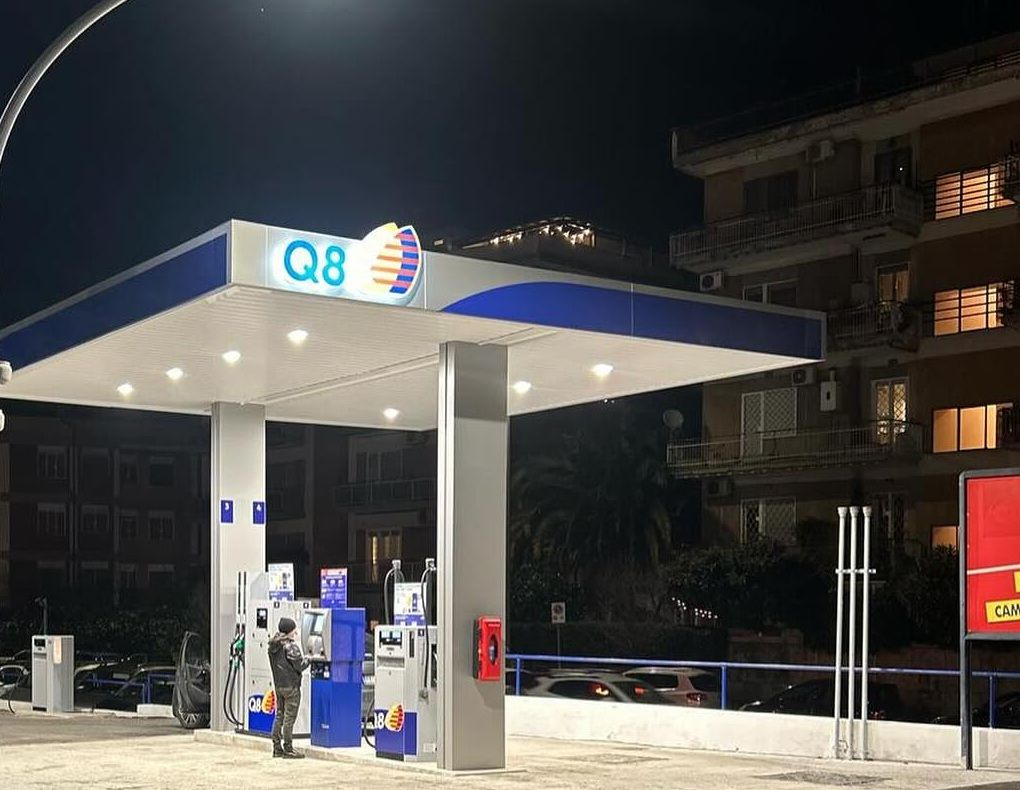
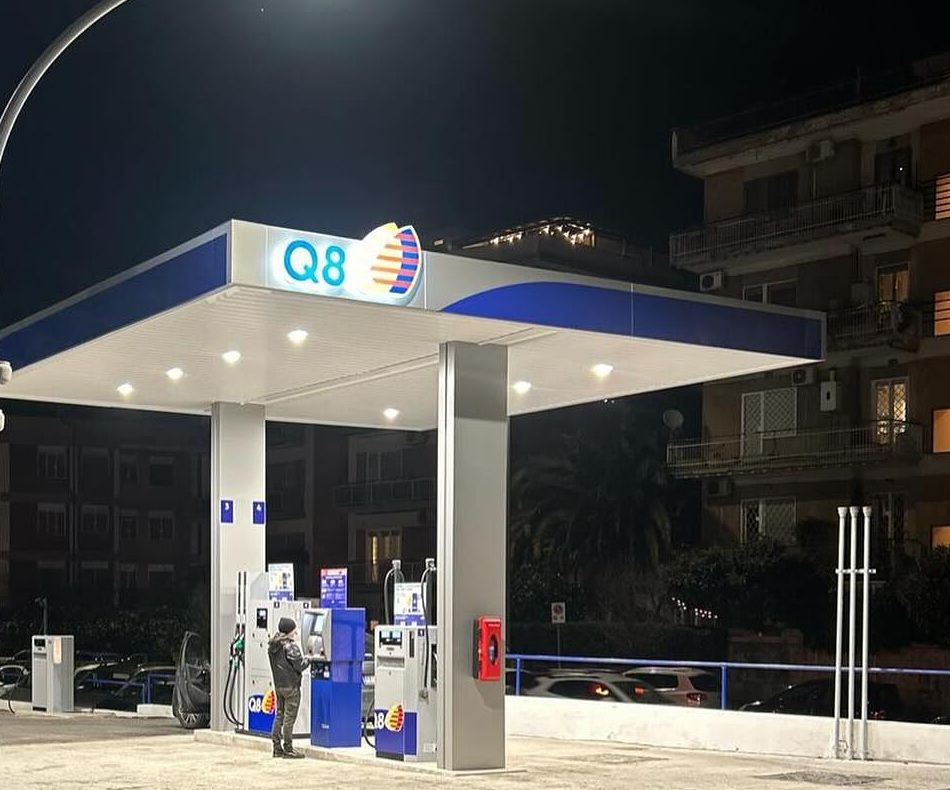
Galleria: Bravetta senza cartellone rosso
Claude-Session: https://claude.ai/code/session_01AEzfjPHTWEjgXzQrjMZKXZ

diff --git a/index.html b/index.html
@@ -1110,7 +1110,7 @@ footer{background:#000b18}
       <p class="kicker">Galleria</p>
       <h2 class="title" id="gal-title">I nostri impianti</h2>
       <p class="lede">Alcune delle stazioni della rete T.Petrol, da Roma all'Agro Pontino. Altre foto in arrivo, anche su Instagram <a href="https://www.instagram.com/tpetrol_srl_/" target="_blank" rel="noopener">@tpetrol_srl_</a>.</p>
-      <div class="gal"><figure class="gal-it"><img src="galleria/sabaudia.jpg" alt="Stazione IP Piazza dei Caduti 21, Borgo Vodice, Sabaudia" loading="lazy" decoding="async"><figcaption><b>IP</b> Borgo Vodice · Sabaudia</figcaption></figure><figure class="gal-it"><img src="galleria/nomentana.jpg" alt="Stazione T24 Via Nomentana 359, Roma" loading="lazy" decoding="async"><figcaption><b>T24</b> Via Nomentana 359 · Roma</figcaption></figure><figure class="gal-it"><img src="galleria/casilina.jpg" alt="Stazione T24 Via Casilina, Roma" loading="lazy" decoding="async"><figcaption><b>T24</b> Via Casilina · Roma</figcaption></figure><figure class="gal-it"><img src="galleria/leonardo.jpg" alt="Stazione Q8 Largo Leonardo da Vinci, Roma" loading="lazy" decoding="async"><figcaption><b>Q8</b> Largo Leonardo da Vinci · Roma</figcaption></figure><figure class="gal-it"><img style="object-position:50% 90%" src="galleria/marconi.jpg" alt="Stazione Q8 Via Marconi 700/A, Roma" loading="lazy" decoding="async"><figcaption><b>Q8</b> Via Marconi 700/A · Roma</figcaption></figure><figure class="gal-it"><img src="galleria/bravetta.jpg" alt="Stazione Q8 Via di Bravetta 312, Roma" loading="lazy" decoding="async"><figcaption><b>Q8</b> Via di Bravetta 312 · Roma</figcaption></figure></div>
+      <div class="gal"><figure class="gal-it"><img src="galleria/sabaudia.jpg" alt="Stazione IP Piazza dei Caduti 21, Borgo Vodice, Sabaudia" loading="lazy" decoding="async"><figcaption><b>IP</b> Borgo Vodice · Sabaudia</figcaption></figure><figure class="gal-it"><img src="galleria/nomentana.jpg" alt="Stazione T24 Via Nomentana 359, Roma" loading="lazy" decoding="async"><figcaption><b>T24</b> Via Nomentana 359 · Roma</figcaption></figure><figure class="gal-it"><img src="galleria/casilina.jpg" alt="Stazione T24 Via Casilina, Roma" loading="lazy" decoding="async"><figcaption><b>T24</b> Via Casilina · Roma</figcaption></figure><figure class="gal-it"><img src="galleria/leonardo.jpg" alt="Stazione Q8 Largo Leonardo da Vinci, Roma" loading="lazy" decoding="async"><figcaption><b>Q8</b> Largo Leonardo da Vinci · Roma</figcaption></figure><figure class="gal-it"><img style="object-position:50% 90%" src="galleria/marconi.jpg" alt="Stazione Q8 Via Marconi 700/A, Roma" loading="lazy" decoding="async"><figcaption><b>Q8</b> Via Marconi 700/A · Roma</figcaption></figure><figure class="gal-it"><img src="galleria/bravetta.jpg?v=2" alt="Stazione Q8 Via di Bravetta 312, Roma" loading="lazy" decoding="async"><figcaption><b>Q8</b> Via di Bravetta 312 · Roma</figcaption></figure></div>
     </div>
   </section>
 
